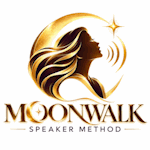
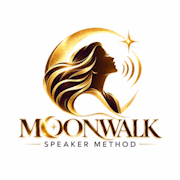
three-days, go live.

diff --git a/data/snippets/head.html b/data/snippets/head.html
@@ -2,12 +2,12 @@
 	<meta name="viewport" content="width=device-width, initial-scale=1.0">
 	<meta property="og:title" content="Public Speaking Coaching for Leaders | Moonwalk Speaker Method">
 	<meta property="og:description" content="Own the room before you say a word. Speaker coaching for senior professionals.">
-	<meta property="og:image" content="https://assets.cnvs.site/images/ai/bd0bf3e6-2a5e-4635-b093-4ff87e9b6e5c/ea8f85094dcf7f0d.webp">
+	<meta property="og:image" content="%site-base%%pageImage%">
 	<meta property="og:type" content="website">
-	<meta property="og:url" content="https://example.com/">
+	<meta property="og:url" content="%url%">
 	<meta name="twitter:card" content="summary_large_image">
-	<link rel="canonical" href="https://example.com/">
-	<link rel="icon" href="https://assets.cnvs.site/images/favicon.png">
+	<link rel="canonical" href="%url%">
+	<link rel="icon" href="%site-base%%safeName%-icon.png">
 	<meta name="theme-color" content="#3F1D38">
 	<link rel="preconnect" href="https://fonts.googleapis.com">
 	<link rel="preconnect" href="https://fonts.gstatic.com" crossorigin>

diff --git a/cms.php b/cms.php
@@ -8,37 +8,46 @@ variables([
 	VAREmail => 'moonwalk@amadeusweb.in',
 	VARAddress => 'Trichy, India',
 	VARAddressUrl => '#maps',
-	VARPhone => $ph = '+916380427526',
+	VARPhone => $ph = '+91-91767-67526',
 	VARWhatsapp => whatsapp_clean($ph),
 
 	socialBuilder::variableName => socialBuilder::create()
-		->addInstagram($handle = 'MoonWalkSM', $handle)
-		->addFacebook($handle, $handle)
+		->addYoutube('@' . $handle = 'MoonWalkSM', $handle)
+		/*
+		->addInstagram($handle, $handle)
 		->addHR()
-		->addYoutube('@' . $handle, $handle)
+		->addFacebook($handle, $handle)
 		->addLinkedIn('company/' . $handle . '/', $handle)
+		*/
+		->addHR()
+		->addShare()
+		->addBuiltin(false, false, socialBuilder::terms)
 		->getItems(),
 
 	replacer::siteReplaces => [
+		'pageImage' => variable(VARSafeName) . '-icon.png', //TODO: logo shows zoomed
 		'book-button' => linkBuilder::factory('Book a Voice Audit', 'book', $popup = 'lightbox', false, 'button mw-btn'),
 		'CommonLongTail' => site::$current->siteName . ', Communication Coach, Trainer, Public Speaking, Gain Confidence, '
 			. 'Communication coaching for mid to senior professionals and aspiring public speakers',
 	],
 
 	VARUPI => [
-		'site' => ['id' => 'advaithbhuvana@okhdfc', 'name' => 'Bhuvana Seshan'],
+		'site' => ['id' => 'advaithbhuvana@okhdfcbank', 'name' => 'Bhuvana Seshan'],
 	],
 ]);
 
+setup_cdn();
+addStyle('moonwalk');
+
 fileResolver::$echoRawHtml = startsWith(nodeValue(), '_');
 
-DEFINE('SHOWAI', true);
-DEFINE('USEAI', getQueryParameter('ai') != 'no');
+$ai = false;
+DEFINE('SHOWAI', $ai);
+DEFINE('USEAI', $ai && getQueryParameter('ai') != 'no');
 
 if (nodeIs(SITEHOME) && USEAI) {
 	variable(VARQueryPrefix . VARQueryContent, 1);
 	setSubTheme('content-only-sans-wrapper');
-	addStyle('moonwalk');
 }
 
 function site_before_render() {

diff --git a/content/terms.md b/content/terms.md
@@ -1,0 +1,41 @@
+## 1. Who These Terms Cover
+
+These terms apply to **%siteName%**, its trainers, and every trainee who enrols in a course, including public speaking and corporate communication. Enrolling in or attending a session means you agree to these terms and any course-specific details shared with you.
+
+---
+
+## 2. Enrolment and Fees
+
+Please provide accurate enrolment information and pay the fees communicated before the course begins. Any instalments, concessions, cancellations, or refunds are subject to the terms shared for that course. Contact %siteName% promptly if you have a question about a payment.
+
+---
+
+## 3. Sessions and Participation
+
+Attend on time, come prepared, and notify your trainer as early as possible if you cannot attend. Make-up sessions, rescheduling, and late arrivals are handled according to the arrangements communicated for your course. Trainees are responsible for having a suitable device and connection for online sessions.
+
+---
+
+## 4. Respectful Learning
+
+Trainers will make reasonable efforts to provide relevant instruction and constructive feedback; trainees are expected to participate respectfully and practise in good faith. Progress varies by person, and **%siteName%** does not guarantee a particular outcome, role, or level of fluency. Harassment, discrimination, intimidation, or disruptive conduct is not acceptable.
+
+---
+
+## 5. One-to-One Session Courtesies and POSH
+
+Keep one-to-one sessions focused on learning, professional, and respectful. Be punctual, use appropriate language and attire, respect personal boundaries, and do not pressure anyone to share personal information. Do not record, photograph, or share a session or its messages without the other participant’s prior consent. Trainers and trainees must not use a learning relationship to seek unwelcome personal or sexual contact.
+
+These expectations apply in person and online and are in addition to applicable law and any relevant POSH (Prevention of Sexual Harassment) policy. If you experience or witness unwelcome conduct, end the interaction if you feel safe to do so and report it to **%siteName%** through its published contact channel. Reports will be handled as sensitively as practicable; retaliation is not acceptable. **%siteName%** may take appropriate action, including changing arrangements or suspending participation.
+
+---
+
+## 6. Privacy and Learning Materials
+
+Use another participant’s personal information only for the course and do not share it without permission. Course materials, exercises, and trainer resources are for your personal learning; do not copy, publish, sell, or distribute them without permission. Do not share confidential or sensitive information in class unless it is necessary and you are comfortable doing so.
+
+---
+
+## 7. Changes and Acceptance
+
+**%siteName%** may make reasonable changes to a trainer, schedule, or course format and will communicate material changes where practicable. Participation may be paused or ended for serious or repeated breaches of these terms. For questions or concerns, contact **%siteName%** through its published contact channel.

diff --git a/posts/notices/three-days.md b/posts/notices/three-days.md
@@ -1,0 +1,52 @@
+[youtube]vOgG1g152Bs?autoplay=1[/youtube]
+
+---
+
+<img src="%cdn%%nodeSlug%/2026-nov-4th.jpg" class="img-fluid img-max-500 d-block m-auto" />
+
+---
+
+*20 PEOPLE. 3 DAYS. ONE MORE CONFIDENT VOICE.*
+
+Do you freeze when someone asks you to speak?
+
+Does your mind go blank just when you need the right words?
+
+Join my 3-Day Speaking Confidence Intensive.
+
+✨ Day 1: Break the Freeze JUSTBR
+✨ Day 2: Organise Your Thoughts JUSTBR
+✨ Day 3: Own Your Voice — Live on Zoom
+
+Three days of practical activities, voice-note challenges, spontaneous speaking and guided feedback.
+
+*Limited to just 20 participants.*
+
+Because your voice deserves more than a one-size-fits-all webinar.
+
+Come ready to practise. Leave with tools you can use.
+
+---
+
+<!--start-engage-->
+
+## Participant Details
+
+
+* Full Name<!--open-->
+* WhatsApp Number[hint]Please note that this program is delivered over whatsapp only.[/hint]<!--open-->
+* Profession
+* City
+
+## About the 3 days program
+
+* Biggest Challenge<!--open-->
+* Yes, I will be available all the 3 days.
+* In case seats are already taken, I would be interested in being informed about the next batch.
+
+## Payment
+
+> %upi-site-textbox%
+
+* Yes I have transferred Rs 299
+* URN No / Screenshot Attached[hint]Please attach the screenshot in the final message / email[/hint]<!--open-->

diff --git a/data/snippets/welcome.md b/data/snippets/welcome.md
@@ -1,4 +1,4 @@
-Welcome to **%siteName%**
+Welcome,
 
 We are pleased to have you here.
 
@@ -8,3 +8,4 @@ warmly, JUSTBR
 Bhuvana
 
 [Enroll Now](%url%enroll/BTNPRIMARY)
+%book-button%

diff --git a/content/book.md b/content/book.md
@@ -1,4 +1,4 @@
-
+Kindly fill the fields below and send us either a whatsapp message or an email.
 
 <!--start-engage-->
 
